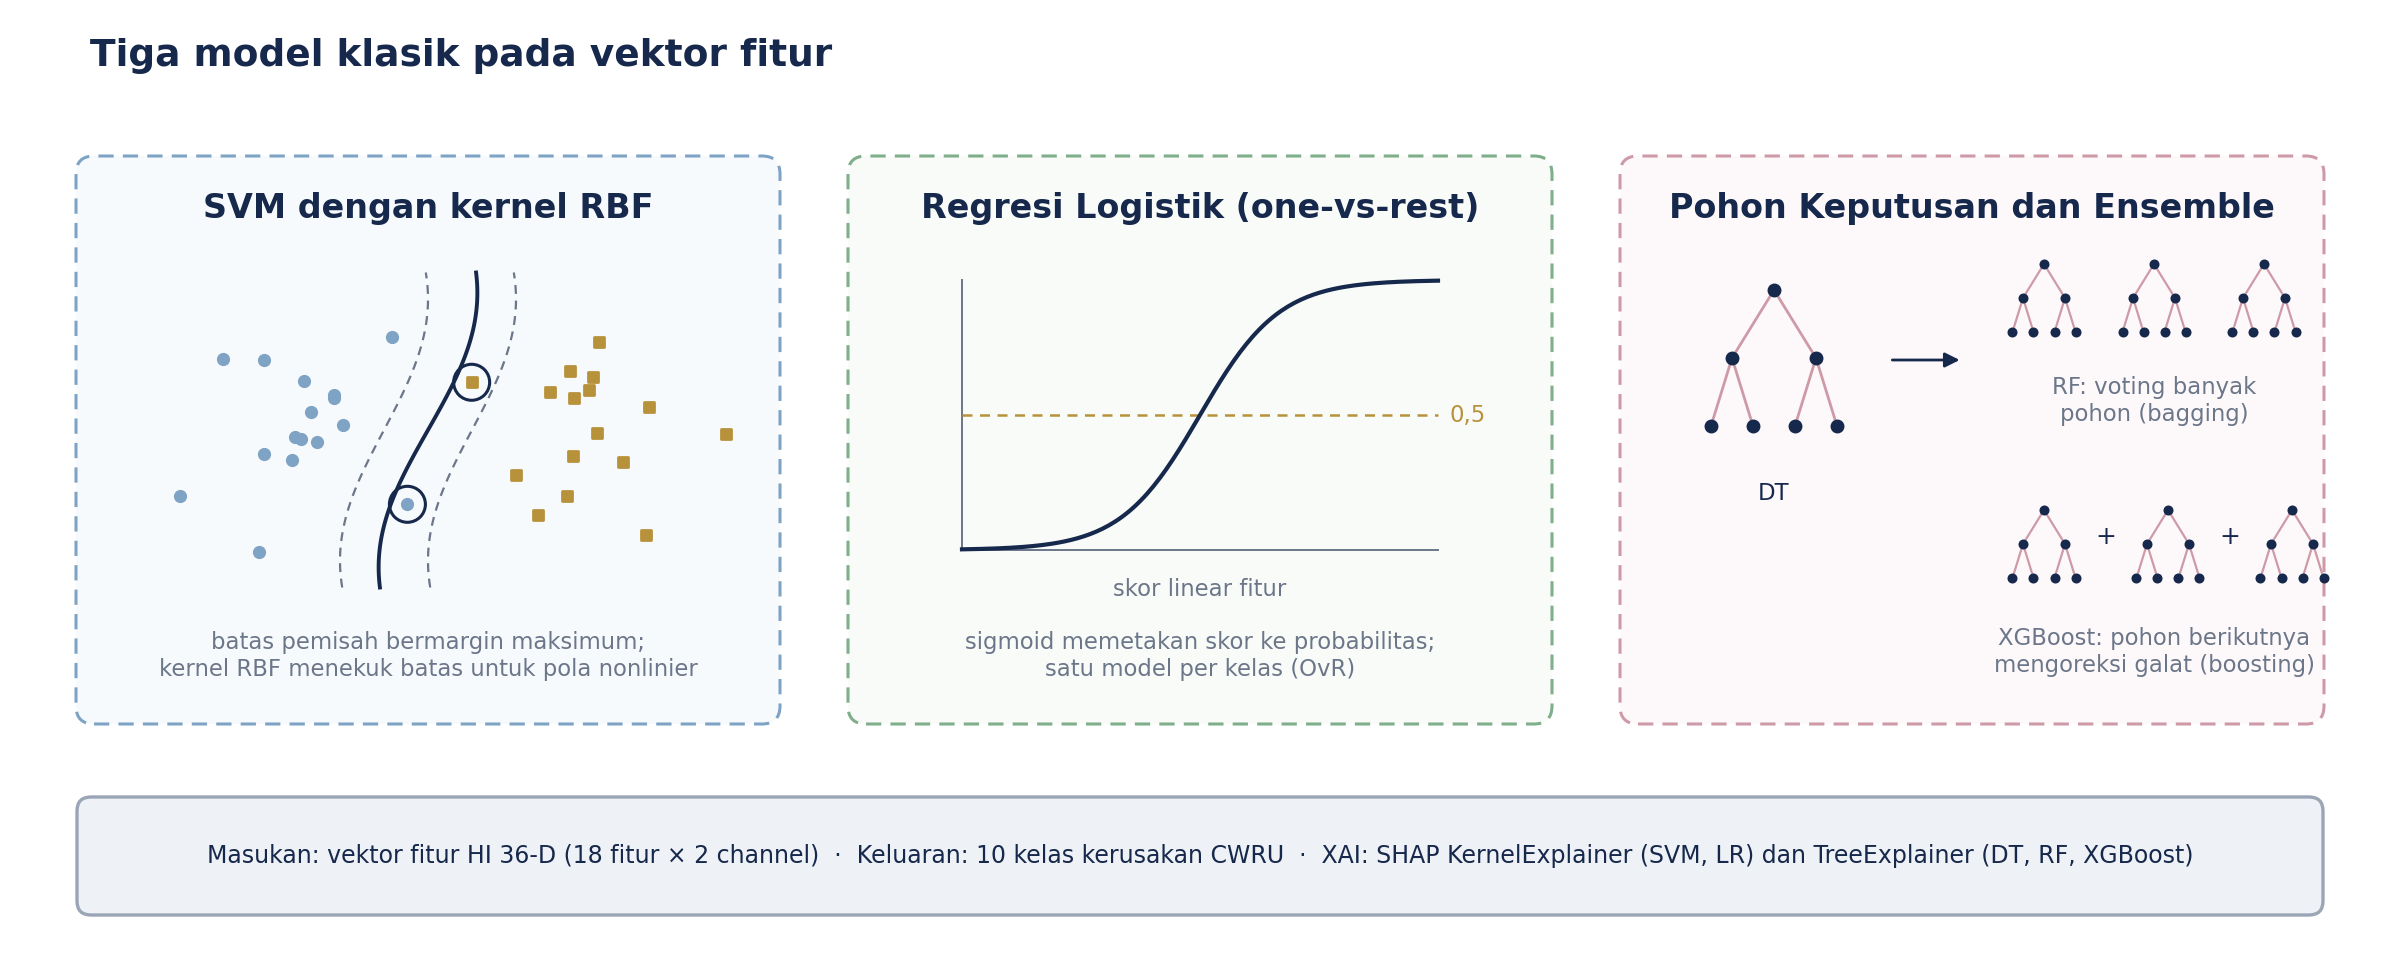
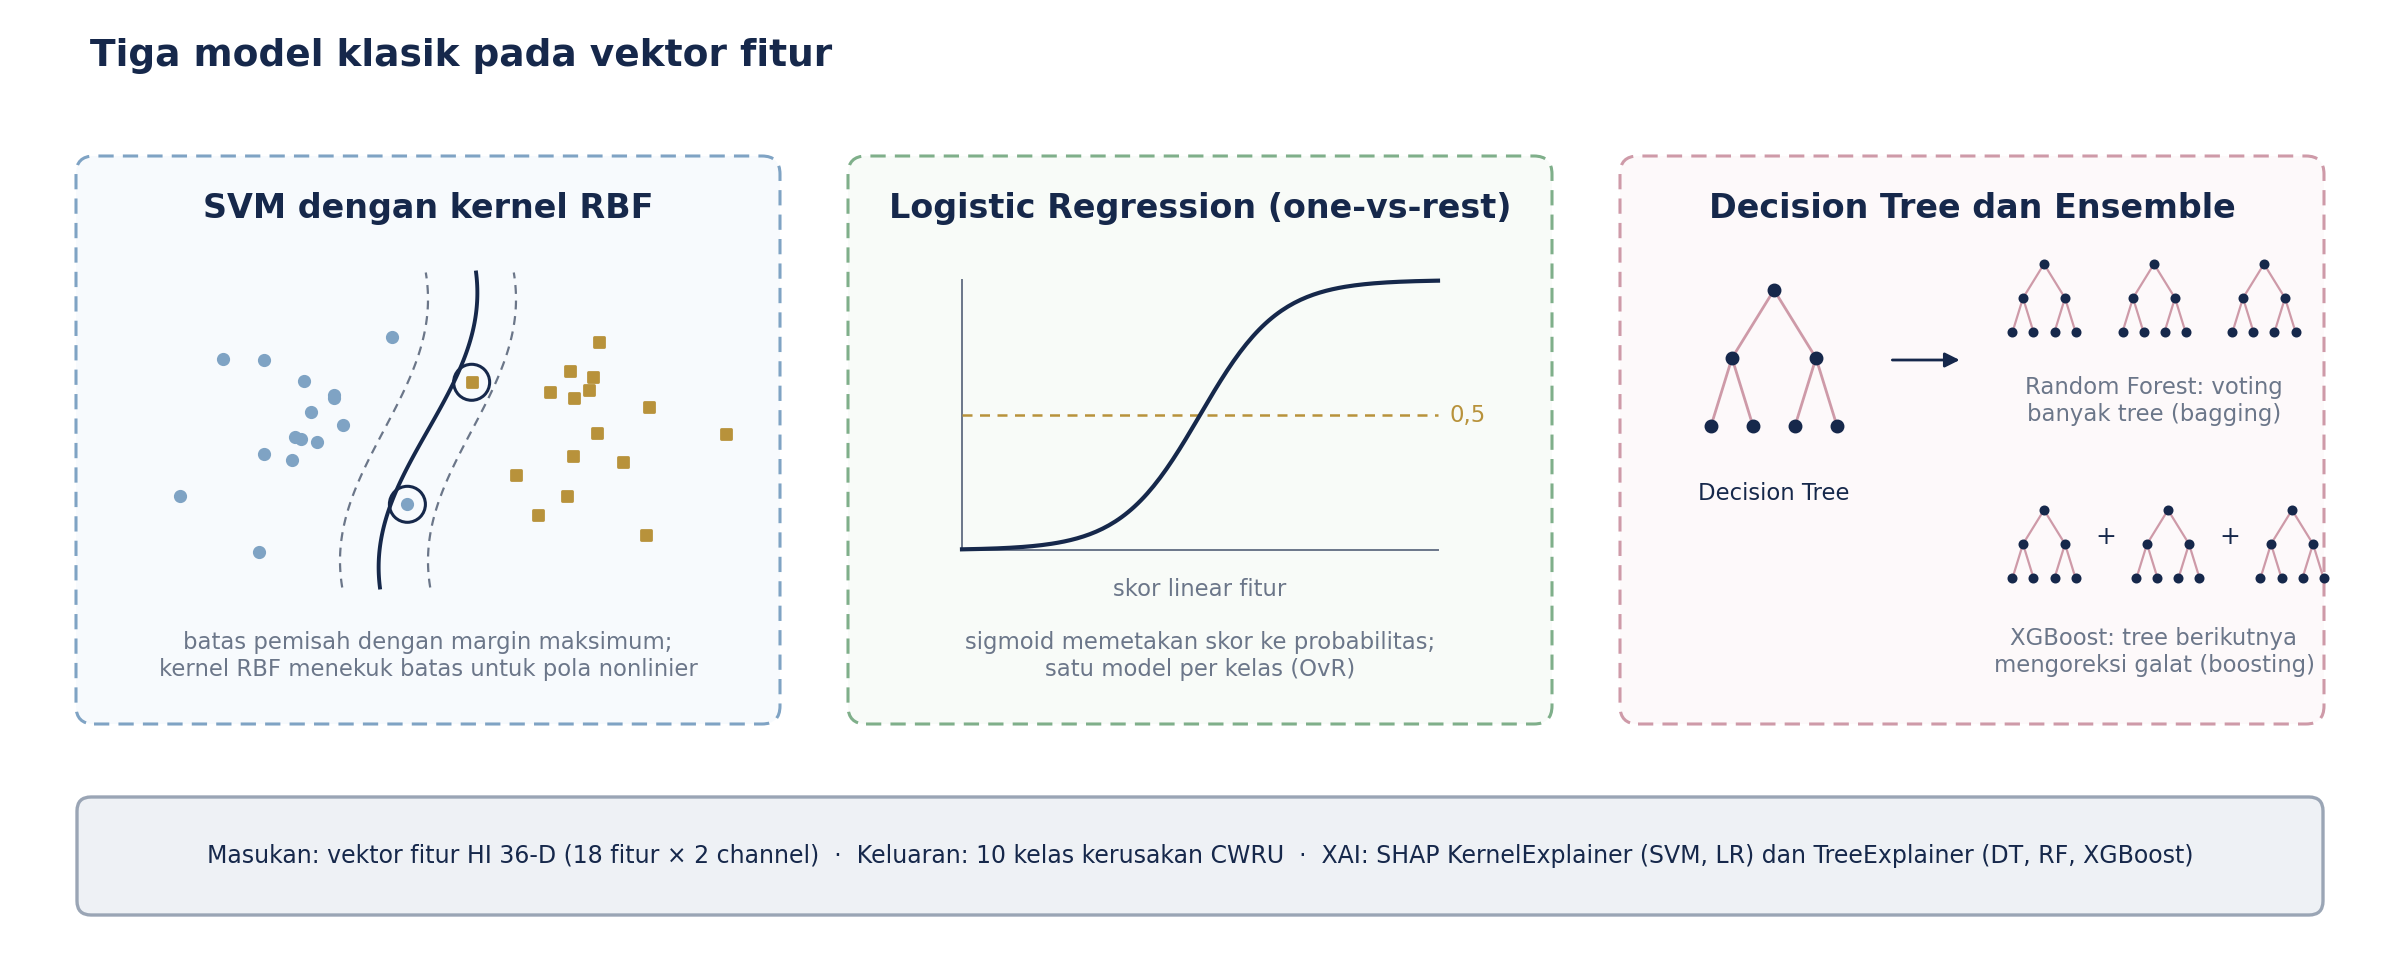
style(presentation): keep established noun terms English in the diagrams
Decision Tree, Logistic Regression, Random Forest, tree, margin stay in
English per the deck's terminology rule; 'Baca via q' becomes 'Readout q'
(also drops the forbidden 'via' connector).

Claude-Session: https://claude.ai/code/session_01VPxUBMA37K3bjY1ZnjmBgu

diff --git a/presentation/tools/render_diagrams.py b/presentation/tools/render_diagrams.py
@@ -264,7 +264,7 @@ def mamba_xlstm_full():
     arrow(ax, (Cx - 0.30, cyc + 0.44), (Cx - 0.30, cyc + 0.29), lw=0.9, shrink=0)
     arrow(ax, (Cx + 0.30, cyc + 0.44), (Cx + 0.30, cyc + 0.29), lw=0.9, shrink=0)
     arrow(ax, (Cx + 0.48, cyc - 0.20), (Cx + 1.14, cyc - 0.20))
-    box(ax, p2x + 5.34, cyc - 0.20, 1.14, 0.5, "Baca via q", kind="util", fs=8.5,
+    box(ax, p2x + 5.34, cyc - 0.20, 1.14, 0.5, "Readout q", kind="util", fs=8.5,
         sub="normalisasi")
     ax.plot([p2x + 1.74, p2x + 5.34], [cyc + 0.85, cyc + 0.85], color=INK, lw=1.0)  # q path
     arrow(ax, (p2x + 5.34, cyc + 0.85), (p2x + 5.34, cyc + 0.14), lw=0.9, shrink=1)
@@ -705,11 +705,11 @@ def classic_ml_trio():
     for pt in (a[np.argmax(a[:, 0])], b[np.argmin(b[:, 0])]):
         ax.add_patch(Circle((cxp + pt[0], cyp + pt[1]), 0.09, fc="none", ec=INK,
                             lw=1.1, zorder=6))
-    ax.text(cxp, py + 0.32, "batas pemisah bermargin maksimum;\nkernel RBF menekuk batas "
+    ax.text(cxp, py + 0.32, "batas pemisah dengan margin maksimum;\nkernel RBF menekuk batas "
             "untuk pola nonlinier", ha="center", va="center", fontsize=FS_TINY, color=MUTED)
 
     # --- Logistic Regression ----------------------------------------------
-    _panel(ax, xs[1], py, pw, ph, "Regresi Logistik (one-vs-rest)", tint="mem")
+    _panel(ax, xs[1], py, pw, ph, "Logistic Regression (one-vs-rest)", tint="mem")
     gx, gy, gw, gh = xs[1] + 0.55, py + 0.85, pw - 1.1, 1.35
     z = np.linspace(-6, 6, 150)
     sig = 1 / (1 + np.exp(-z))
@@ -726,7 +726,7 @@ def classic_ml_trio():
             fontsize=FS_TINY, color=MUTED)
 
     # --- Trees -------------------------------------------------------------
-    _panel(ax, xs[2], py, pw, ph, "Pohon Keputusan dan Ensemble", tint="gate")
+    _panel(ax, xs[2], py, pw, ph, "Decision Tree dan Ensemble", tint="gate")
 
     def tree(cx, cy, s=1.0, lw=1.0, ms=4.0):
         pts = {(0, 0): (cx, cy)}
@@ -743,18 +743,19 @@ def classic_ml_trio():
             ax.plot([x0], [y0], marker="o", ms=ms, color=INK, zorder=4)
 
     tree(xs[2] + 0.75, py + 2.15, s=1.0)
-    ax.text(xs[2] + 0.75, py + 1.10, "DT", ha="center", fontsize=FS_TINY, color=INK)
+    ax.text(xs[2] + 0.75, py + 1.10, "Decision Tree", ha="center",
+            fontsize=FS_TINY, color=INK)
     arrow(ax, (xs[2] + 1.30, py + 1.80), (xs[2] + 1.72, py + 1.80), lw=1.0)
     for i in range(3):
         tree(xs[2] + 2.10 + i * 0.55, py + 2.28, s=0.5, lw=0.8, ms=2.6)
-    ax.text(xs[2] + 2.65, py + 1.72, "RF: voting banyak\npohon (bagging)",
+    ax.text(xs[2] + 2.65, py + 1.72, "Random Forest: voting\nbanyak tree (bagging)",
             ha="center", va="top", fontsize=FS_TINY, color=MUTED)
     for i in range(3):
         tree(xs[2] + 2.10 + i * 0.62, py + 1.05, s=0.5, lw=0.8, ms=2.6)
         if i < 2:
             ax.text(xs[2] + 2.41 + i * 0.62, py + 0.88, "+", fontsize=9, color=INK,
                     ha="center")
-    ax.text(xs[2] + 2.65, py + 0.34, "XGBoost: pohon berikutnya\nmengoreksi galat (boosting)",
+    ax.text(xs[2] + 2.65, py + 0.34, "XGBoost: tree berikutnya\nmengoreksi galat (boosting)",
             ha="center", va="center", fontsize=FS_TINY, color=MUTED)
 
     ax.text(0.45, 4.62, "Tiga model klasik pada vektor fitur", ha="left", va="center",
